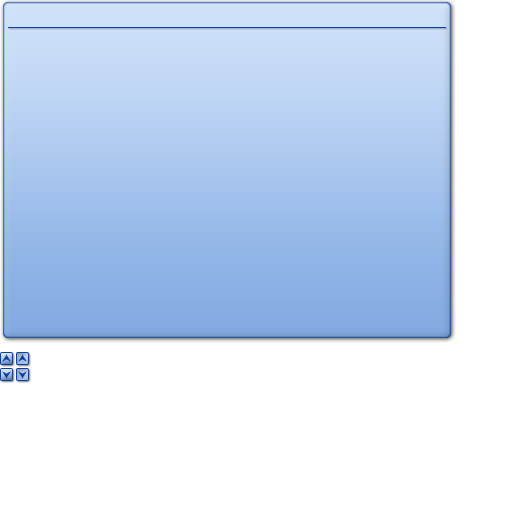
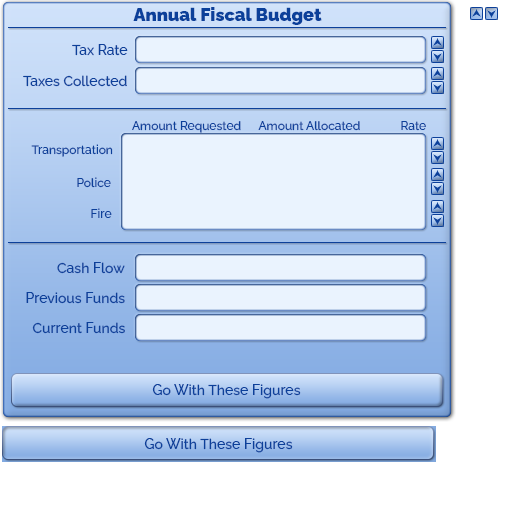
Start fleshing out BudgetWindow

diff --git a/src/BudgetWindow.cpp b/src/BudgetWindow.cpp
@@ -10,10 +10,24 @@
 // file, included in this distribution, for details.
 #include "BudgetWindow.h"
 
+
+namespace
+{
+	const SDL_Rect bgRect{ 0, 0, 456, 422 };
+
+	const SDL_Rect mainButtonArea{ 11, 373, 432, 35 };
+	const SDL_Rect mainButtonDown{ 2, 426, 434, 36 };
+	const SDL_Rect mainButtonUp{ 0, 438, 456, 60 };
+
+	const SDL_Rect upButtonDown{ 470, 7, 13, 13 };
+	const SDL_Rect downButtonDown{ 485, 7, 13, 13 };
+};
+
+
 BudgetWindow::BudgetWindow(SDL_Renderer* renderer, const StringRender& stringRenderer) :
 	mRenderer(renderer),
 	mStringRenderer(stringRenderer),
-	mTitleFont(new Font("res/raleway-black.ttf", 18)),
+	mTitleFont(new Font("res/raleway-medium.ttf", 14)),
 	mTexture(loadTexture(renderer, "images/budget.png"))
 {}
 
@@ -21,6 +35,11 @@ BudgetWindow::BudgetWindow(SDL_Renderer* renderer, const StringRender& stringRen
 BudgetWindow::~BudgetWindow()
 {
 	delete mTitleFont;
+}
+
+void BudgetWindow::reset()
+{
+	mAccepted = false;
 }
 
 
@@ -32,10 +51,16 @@ void BudgetWindow::position(const Point<int> pos)
 
 void BudgetWindow::draw()
 {
-	const SDL_Rect bgRect{ 0, 0, 456, 344 };
 	SDL_RenderCopy(mRenderer, mTexture.texture, &bgRect, &mRect);
 
-	const Point<int> drawPoint{ mRect.x + mRect.w / 2 - mTitleFont->width(Title) / 2, mRect.y + 5 };
+	SDL_Point mousePosition{};
+	Uint32 leftButtonDown = SDL_GetMouseState(&mousePosition.x, &mousePosition.y) & SDL_BUTTON_LMASK;
 
-	mStringRenderer.drawString(*mTitleFont, Title, drawPoint, { 12, 64, 154, 255 });
+	const SDL_Rect buttonArea{ mainButtonArea.x + mRect.x, mainButtonArea.y + mRect.y, mainButtonDown.w, mainButtonDown.h };
+
+	if (SDL_PointInRect(&mousePosition, &buttonArea) && leftButtonDown)
+	{
+		SDL_RenderCopy(mRenderer, mTexture.texture, &mainButtonDown, &buttonArea);
+		mAccepted = true;
+	}
 }

diff --git a/src/main.cpp b/src/main.cpp
@@ -919,9 +919,16 @@ void startGame()
 
         if (BudgetWindowShown)
         {
-            SDL_SetRenderDrawColor(MainWindowRenderer, 0, 0, 0, 100);
+            SDL_SetRenderDrawColor(MainWindowRenderer, 0, 0, 0, 175);
             SDL_RenderFillRect(MainWindowRenderer, nullptr);
             budgetWindow->draw();
+
+            if (budgetWindow->accepted())
+            {
+                budgetWindow->reset();
+                BudgetWindowShown = false;
+            }
+
         }
         else
         {

diff --git a/src/BudgetWindow.h b/src/BudgetWindow.h
@@ -32,13 +32,18 @@ public:
 
 	const SDL_Rect& rect() const { return mRect; }
 
+	void reset();
+
 	void position(const Point<int> pos);
+
+	bool accepted() const { return mAccepted; }
 
 	void draw();
 
 private:
 
-	SDL_Rect mRect{ 0, 0, 456, 344 };
+	bool mAccepted{ false };
+	SDL_Rect mRect{ 0, 0, 456, 422 };
 
 	SDL_Renderer* mRenderer{ nullptr };
 	const StringRender& mStringRenderer;
